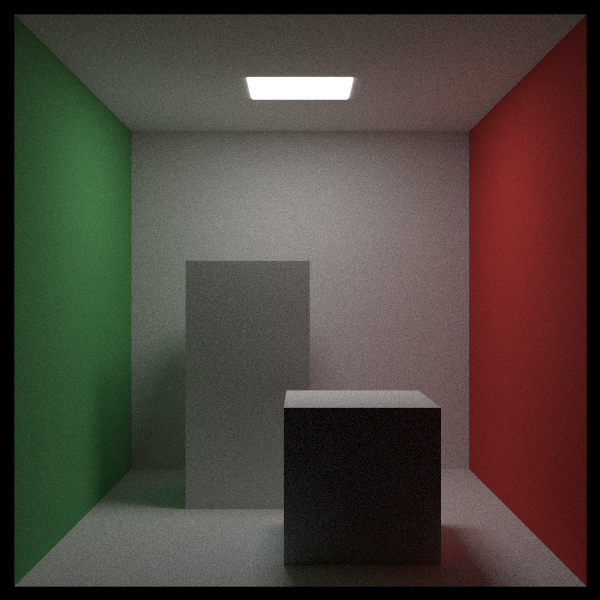
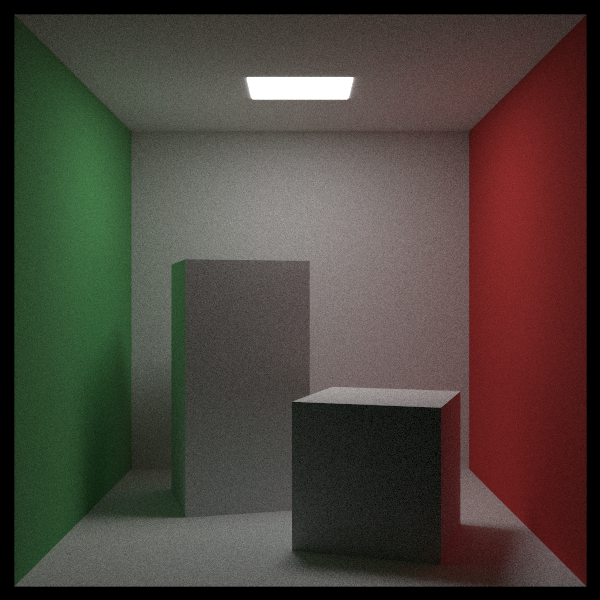
Add translation and rotation

Changed region(s): [[0.12, 0.6, 0.9, 0.99], [0.24, 0.42, 0.33, 0.66]]

diff --git a/src/hittable.rs b/src/hittable.rs
@@ -1,13 +1,12 @@
-use std::sync::Arc;
-
 use crate::{
     aabb::AABB,
-    common::FP,
+    common::{degrees_to_radians, FP},
     interval::Interval,
     material::Material,
     ray::Ray,
     vec3::{Point3, Vec3},
 };
+use std::sync::Arc;
 
 pub struct HitRecord<'a> {
     pub p: Point3,
@@ -72,6 +71,120 @@ impl Hittable for HittableList {
         }
 
         hit_anything
+    }
+
+    fn bounding_box(&self) -> AABB {
+        self.bbox
+    }
+}
+
+pub struct Translate {
+    object: Arc<dyn Hittable>,
+    offset: Vec3,
+    bbox: AABB,
+}
+impl Translate {
+    pub fn new(object: Arc<dyn Hittable>, offset: Vec3) -> Self {
+        let bbox = object.bounding_box() + offset;
+        Self {
+            object,
+            offset,
+            bbox,
+        }
+    }
+}
+impl Hittable for Translate {
+    fn hit(&self, r: &Ray, ray_t: &Interval) -> Option<HitRecord> {
+        let offset_r = Ray::new(r.origin - self.offset, r.direction).with_time(r.time);
+
+        if let Some(mut hit) = self.object.hit(&offset_r, ray_t) {
+            hit.p += self.offset;
+            Some(hit)
+        } else {
+            None
+        }
+    }
+
+    fn bounding_box(&self) -> AABB {
+        self.bbox
+    }
+}
+
+pub struct RotateY {
+    object: Arc<dyn Hittable>,
+    sin_theta: FP,
+    cos_theta: FP,
+    bbox: AABB,
+}
+impl RotateY {
+    pub fn new(object: Arc<dyn Hittable>, angle: FP) -> Self {
+        let theta = degrees_to_radians(angle);
+        let sin_theta = theta.sin();
+        let cos_theta = theta.cos();
+        let bbox = object.bounding_box();
+
+        let mut min = Point3::INFINITY;
+        let mut max = Point3::NEG_INFINITY;
+
+        for i in 0..2 {
+            for j in 0..2 {
+                for k in 0..2 {
+                    let x = i as FP * bbox.x.max + (1.0 - i as FP) * bbox.x.min;
+                    let y = j as FP * bbox.y.max + (1.0 - j as FP) * bbox.y.min;
+                    let z = k as FP * bbox.z.max + (1.0 - k as FP) * bbox.z.min;
+
+                    let new_x = cos_theta * x + sin_theta * z;
+                    let new_z = -sin_theta * x + cos_theta * z;
+
+                    let tester = Vec3::new(new_x, y, new_z);
+
+                    for c in 0..3 {
+                        min[c] = min[c].min(tester[c]);
+                        max[c] = max[c].max(tester[c]);
+                    }
+                }
+            }
+        }
+
+        let bbox = AABB::new_from_points(min, max);
+
+        Self {
+            object,
+            sin_theta,
+            cos_theta,
+            bbox,
+        }
+    }
+}
+impl Hittable for RotateY {
+    fn hit(&self, r: &Ray, ray_t: &Interval) -> Option<HitRecord> {
+        let mut origin = r.origin;
+        let mut direction = r.direction;
+
+        origin.x = self.cos_theta * r.origin.x - self.sin_theta * r.origin.z;
+        origin.z = self.sin_theta * r.origin.x + self.cos_theta * r.origin.z;
+
+        direction.x = self.cos_theta * r.direction.x - self.sin_theta * r.direction.z;
+        direction.z = self.sin_theta * r.direction.x + self.cos_theta * r.direction.z;
+
+        let rotated_r = Ray::new(origin, direction).with_time(r.time);
+
+        if let Some(mut hit) = self.object.hit(&rotated_r, ray_t) {
+            let mut p = hit.p;
+            p.x = self.cos_theta * hit.p.x + self.sin_theta * hit.p.z;
+            p.z = -self.sin_theta * hit.p.x + self.cos_theta * hit.p.z;
+
+            let mut normal = hit.normal;
+            normal.x = self.cos_theta * hit.normal.x + self.sin_theta * hit.normal.z;
+            normal.z = -self.sin_theta * hit.normal.x + self.cos_theta * hit.normal.z;
+
+            hit.p = p;
+            hit.normal = normal;
+
+            Some(hit)
+        } else {
+            None
+        }
     }
 
     fn bounding_box(&self) -> AABB {

diff --git a/src/main.rs b/src/main.rs
@@ -10,6 +10,7 @@ use bvh::BVHNode;
 use camera::CameraSettings;
 use clap::Parser;
 use common::FP;
+use hittable::{RotateY, Translate};
 use material::{Dielectric, DiffuseLight, Lambertian, Material, Metal};
 use quad::Quad;
 use rand::Rng;
@@ -386,21 +387,24 @@ fn cornell_box() -> (HittableList, Camera) {
         Arc::clone(&white),
     )));
 
-    world.add(Quad::cube(
-        &Point3::new(130.0, 0.0, 65.0),
-        &Point3::new(295.0, 165.0, 230.0),
+    let box1 = Quad::cube(
+        &Point3::ZERO,
+        &Point3::new(165.0, 330.0, 165.0),
         Arc::clone(&white),
-    ));
-    world.add(Quad::cube(
-        &Point3::new(265.0, 0.0, 295.0),
-        &Point3::new(430.0, 330.0, 460.0),
-        white,
-    ));
+    );
+    let box1 = Arc::new(RotateY::new(box1, 15.0));
+    let box1 = Arc::new(Translate::new(box1, Vec3::new(265.0, 0.0, 295.0)));
+    world.add(box1);
+
+    let box2 = Quad::cube(&Point3::ZERO, &Point3::splat(165.0), white);
+    let box2 = Arc::new(RotateY::new(box2, -18.0));
+    let box2 = Arc::new(Translate::new(box2, Vec3::new(130.0, 0.0, 65.0)));
+    world.add(box2);
 
     let camera = Camera::new(CameraSettings {
         aspect_ratio: 1.0,
         image_width: 600,
-        samples_per_pixel: 1024,
+        samples_per_pixel: 4096,
         max_depth: 8,
         background: Color::ZERO,
 

diff --git a/src/vec3.rs b/src/vec3.rs
@@ -1,7 +1,9 @@
 use crate::common::FP;
 use core::fmt;
 use rand::Rng;
-use std::ops::{Add, AddAssign, Div, DivAssign, Index, Mul, MulAssign, Neg, Sub, SubAssign};
+use std::ops::{
+    Add, AddAssign, Div, DivAssign, Index, IndexMut, Mul, MulAssign, Neg, Sub, SubAssign,
+};
 
 #[derive(Debug, Copy, Clone, PartialEq)]
 pub struct Vec3 {
@@ -262,9 +264,20 @@ impl Index<usize> for Vec3 {
     fn index(&self, index: usize) -> &Self::Output {
         assert!(index <= 2);
         match index {
+            0 => &self.x,
             1 => &self.y,
-            2 => &self.z,
-            _ => &self.x,
+            _ => &self.z,
+        }
+    }
+}
+
+impl IndexMut<usize> for Vec3 {
+    fn index_mut(&mut self, index: usize) -> &mut Self::Output {
+        assert!(index <= 2);
+        match index {
+            0 => &mut self.x,
+            1 => &mut self.y,
+            _ => &mut self.z,
         }
     }
 }

diff --git a/src/aabb.rs b/src/aabb.rs
@@ -1,10 +1,16 @@
-use crate::{interval::Interval, ray::Ray, vec3::Point3};
+use std::ops::Add;
+
+use crate::{
+    interval::Interval,
+    ray::Ray,
+    vec3::{Point3, Vec3},
+};
 
 #[derive(Default, Copy, Clone)]
 pub struct AABB {
-    x: Interval,
-    y: Interval,
-    z: Interval,
+    pub x: Interval,
+    pub y: Interval,
+    pub z: Interval,
 }
 
 impl AABB {
@@ -75,5 +81,25 @@ impl AABB {
             }
         }
         true
+    }
+}
+
+impl Add<Vec3> for AABB {
+    type Output = Self;
+
+    fn add(self, rhs: Vec3) -> Self::Output {
+        Self {
+            x: self.x + rhs.x,
+            y: self.y + rhs.y,
+            z: self.z + rhs.z,
+        }
+    }
+}
+
+impl Add<AABB> for Vec3 {
+    type Output = AABB;
+
+    fn add(self, rhs: AABB) -> Self::Output {
+        rhs + self
     }
 }

diff --git a/src/interval.rs b/src/interval.rs
@@ -1,3 +1,5 @@
+use std::ops::Add;
+
 use crate::common::FP;
 
 #[derive(Default, Clone, Copy)]
@@ -35,5 +37,24 @@ impl Interval {
     }
     pub fn clamp(&self, x: FP) -> FP {
         x.clamp(self.min, self.max)
+    }
+}
+
+impl Add<FP> for Interval {
+    type Output = Self;
+
+    fn add(self, rhs: FP) -> Self::Output {
+        Self {
+            min: self.min + rhs,
+            max: self.max + rhs,
+        }
+    }
+}
+
+impl Add<Interval> for FP {
+    type Output = Interval;
+
+    fn add(self, rhs: Interval) -> Self::Output {
+        rhs + self
     }
 }

diff --git a/src/renderer.rs b/src/renderer.rs
@@ -74,7 +74,7 @@ pub fn render(camera: Arc<Camera>, world: Arc<dyn Hittable>, output_file_name: S
     }
 }
 
-pub fn live_render(camera: Arc<Camera>, world: Arc<impl Hittable>) {
+pub fn live_render(camera: Arc<Camera>, world: Arc<dyn Hittable>) {
     let height = camera.image_height;
     let width = camera.image_width;
     let spp = camera.samples_per_pixel;
